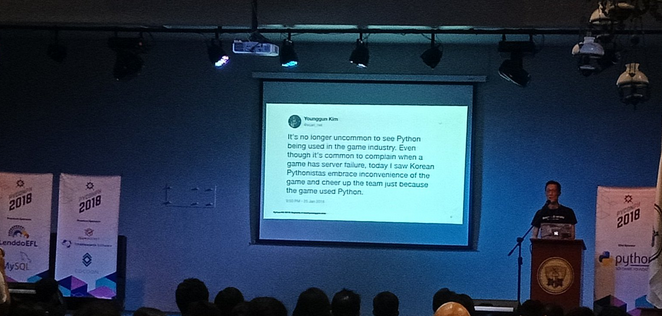
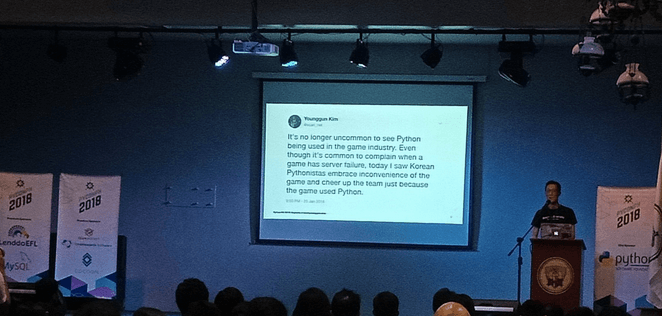
Fix Typo, Fix Images

diff --git a/content/Events/pycon-ph-2018-en.md b/content/Events/pycon-ph-2018-en.md
@@ -1,4 +1,4 @@
-Title: [Xoxzo] Trp to Pycon Philippines 2018
+Title: [Xoxzo] Trip to Pycon Philippines 2018
 Date: 2018-03-04 13:00 
 Slug: pycon-ph-2018
 Lang: en 
@@ -22,17 +22,17 @@ Group Lunches were done for people to discuss on various topics and interact wit
 
 The Next Keynote speaker was Al Sweigart who explained the importance of interacting with people in the conference. He gave examples of how games have developed over the years, how older games like Atari’s Adventure was not designed well to Nintendo’s Mario which was designed by designers. And how interaction is important between people having different  roles & backgrounds.
 
-< Al Sweigart> ![PyCon PH 2018 XOXZO Keynote2]({filename}/images/pycon-ph-2018/5.jpg)
+![PyCon PH 2018 XOXZO Keynote2]({filename}/images/pycon-ph-2018/5.jpg)
 
 Lightning Talks were held on the second day, with a total of 18 Speakers. I started the Lightning Talk session with a talk on how to build simple chatbots.
 
-<My pic> ![PyCon PH 2018 XOXZO Lightning1]({filename}/images/pycon-ph-2018/7.jpg)
+![PyCon PH 2018 XOXZO Lightning1]({filename}/images/pycon-ph-2018/7.png)
 
 
 There was a final keynote by Younggun Kim speaking about the APAC Python Community, and how it has progressed over the years.
 
 
-<kim> ![PyCon PH 2018 XOXZO Keynote3]({filename}/images/pycon-ph-2018/8.jpg)
+![PyCon PH 2018 XOXZO Keynote3]({filename}/images/pycon-ph-2018/8.png)
 
 The day ended with a discussion between different PyCon Organizers in the APAC Community.
 
